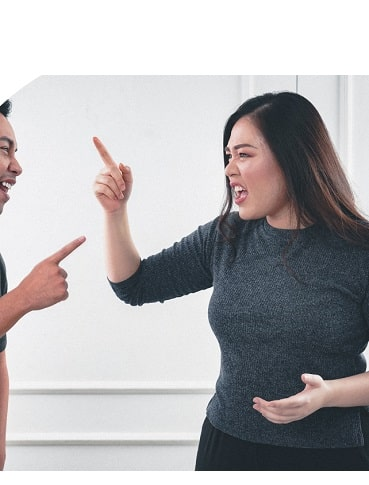
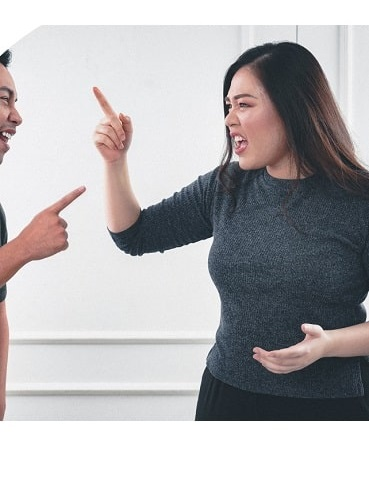
why_we responsive DONE

diff --git a/src/assets/css/respons.scss b/src/assets/css/respons.scss
@@ -653,6 +653,7 @@
 
         section#turn_to_us .turn_to_us_img_wrap img {
             filter: grayscale(100%);
+            object-position: 0px -55px;
         }
 
         section#turn_to_us .wrap_img,
@@ -663,6 +664,47 @@
         section#turn_to_us h1 {
             font-size: 3.2rem;
         }
+
+    // <<===========================SECTION #why_we===========================>>
+    section#why_we h1{
+        font-size: 3.2rem;    
+    }
+
+    section#why_we .our_lists_wrap {
+        flex-direction: column-reverse;
+        align-items: center;
+    }
+
+    section#why_we .wrap_img {
+        border-radius: 400px 400px 0 0;
+        width: 100%;
+        img {
+            width: 100%;
+            object-fit: contain;
+        }
+    }
+
+    section#why_we .interesting_offer {
+        flex-direction: column;
+        align-items: center;
+        gap: 40px;
+    }
+
+    section#why_we .interesting_offer .wrap_interesting_img {
+            // border-radius: 400px 400px 0 0;
+            border-radius: 400px 400px 0 0;
+            // max-width: 534px;
+            height: 355px;
+            // width: 100%;
+            border: 1px solid red;
+            img {
+                object-position: -76px -3px;
+                object-fit: none;
+            }
+    }
+    section#why_we .interesting_offer .interesting_offer_text_wrap {
+        padding: 40px;
+    }
 
     // <<===========================Footer===========================>>
 
@@ -1333,6 +1375,27 @@
                 display: none;
             }
         }
+        
+
+        // <<===========================SECTION #why_we===========================>>
+        section#why_we .our_lists_detail_wrap ul li {
+            font-size: 1.475rem;
+            line-height: 2rem;
+        }
+        section#why_we .our_lists_detail_wrap a {
+            font-size: 1.475rem;
+        }
+        section#why_we .our_lists_detail_wrap a::before {
+            left: 160px;
+        }
+        section#why_we .our_lists_detail_wrap a::after {
+            left: 190px;
+        }
+        section#why_we .interesting_offer .interesting_offer_text_wrap {
+            font-size: 1.4rem;
+            line-height: 2rem;
+        }
+
 
 }
 
@@ -1424,7 +1487,6 @@
     section#services h1 + p::before {
         top: 15px;
     }
-    
 
 }
 
@@ -1545,8 +1607,13 @@
                 line-height: 4rem;
             }
         }
-    
     }
+
+    // <<===========================SECTION #why_we===========================>>
+    section#why_we .our_lists_detail_wrap {
+        padding-top: 0;
+    }
+    
 
 
     // <<===========================SECTION #prices===========================>>
@@ -1557,6 +1624,10 @@
     
     section#prices .our_prices_slider_item {
         height: 630px
+    }
+
+    section#why_we .wrap_img {
+        height: 400px;
     }
 
 
@@ -1609,6 +1680,10 @@
         font-size: 1.7rem;
         line-height: 2.25rem;
     }
+    // <<===========================SECTION #why_we===========================>>
+    section#why_we h1 {
+        font-size: 2.6rem;
+    } 
 }
 
 
@@ -1644,7 +1719,7 @@
           
             }
         }
-    }
+    }  
     
  }
 
@@ -1681,6 +1756,26 @@
         top: 600px;
         left: 50%;
         transform: translateX(-50%);
+    }
+
+    // <<===========================SECTION #why_we===========================>>
+  
+    section#why_we .our_lists_detail_wrap ul li {
+        font-size: 1.275rem;
+        line-height: 1.6rem;
+    }
+    section#why_we .our_lists_detail_wrap a {
+        font-size: 1.275rem;
+    }
+    section#why_we .our_lists_detail_wrap a::before {
+        left: 140px;
+    }
+    section#why_we .our_lists_detail_wrap a::after {
+        left: 170px;
+    }
+    section#why_we .interesting_offer .interesting_offer_text_wrap {
+        font-size: 1.1rem;
+        line-height: 1.6rem;
     }
 
  }
@@ -2054,6 +2149,24 @@
         // width: 100%;
     }
 
+    // <<===========================SECTION #turn_to_us===========================>>
+        section#turn_to_us .turn_to_us_bottom_info p {
+            font-size: 1.2rem;
+            line-height: 1.6rem;
+        }
+        section#turn_to_us .turn_to_us_bottom_info {
+            padding: 15px;
+        }
+        section#why_we h1 {
+            font-size: 2.2rem;
+        }
+
+        
+    // <<===========================SECTION #prices===========================>>
+
+    section#why_we .wrap_img {
+        height: 350px;
+    }
 }
 
 @media screen and (max-width: 360px) {

diff --git a/src/assets/css/main.scss b/src/assets/css/main.scss
@@ -1624,7 +1624,7 @@ section#turn_to_us {
         width: 100%;
         img {
             object-fit: none;
-            object-position: 0px -60px;
+            object-position: 0px -65px;
             &:hover {
                 // transform: scale(1.1);
             }
